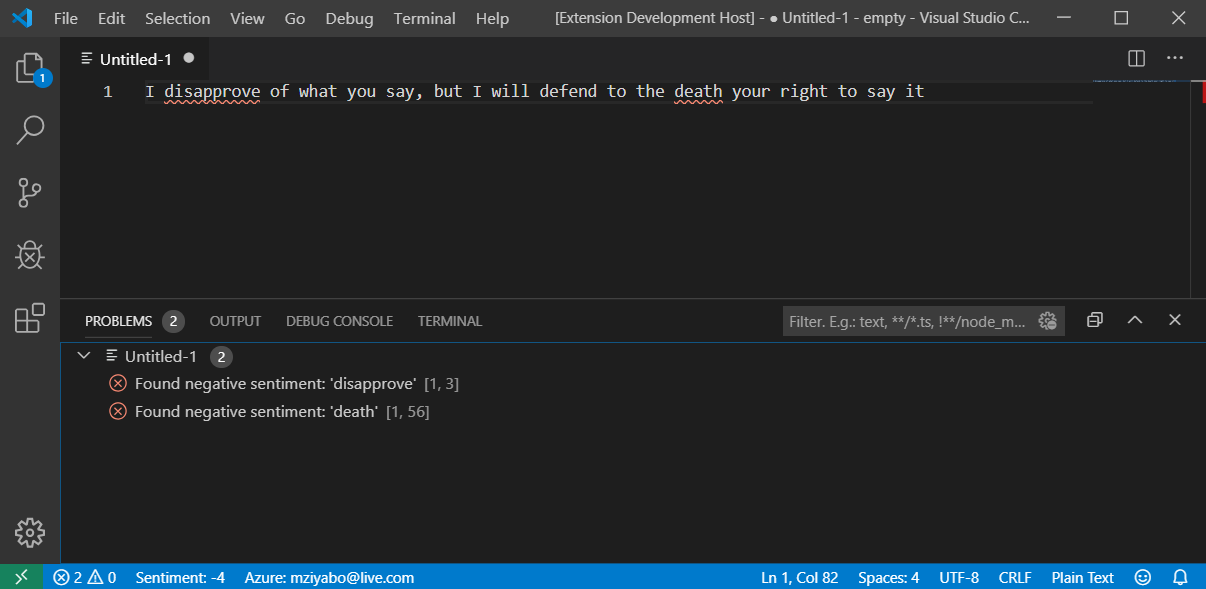
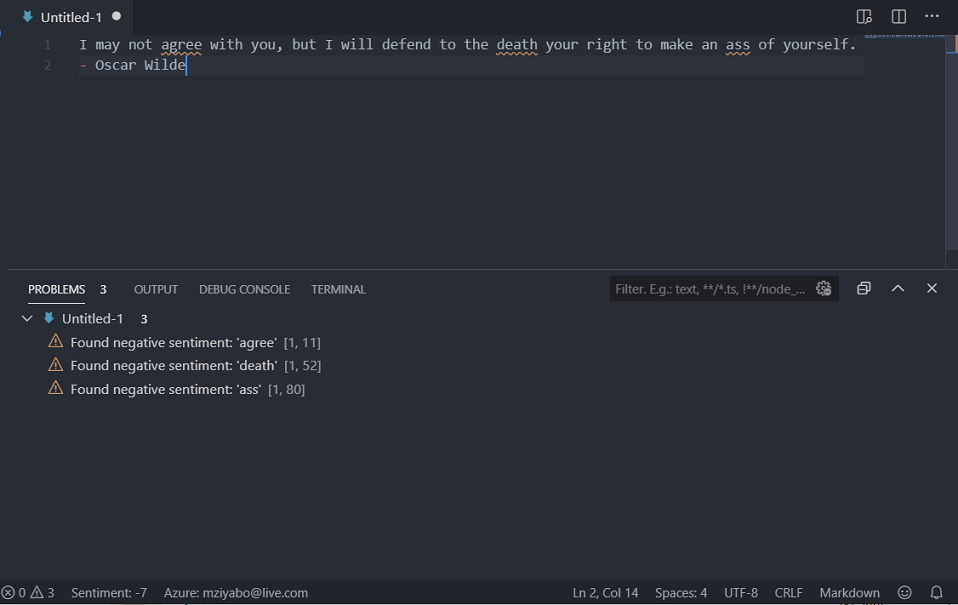
Updated sentiment DiagnosticSeverity from Error to Warning

diff --git a/src/sentiment.ts b/src/sentiment.ts
@@ -31,7 +31,7 @@ export function AnalyzeSentiment(collection) {
                     const endPos = activeEditor.document.positionAt(match.index + match[0].length);
 
                     let selection = new vscode.Range(startPos, endPos);
-                    let diagnostic = new vscode.Diagnostic(selection, `Found negative sentiment: '${negative}'`, vscode.DiagnosticSeverity.Error);
+                    let diagnostic = new vscode.Diagnostic(selection, `Found negative sentiment: '${negative}'`, vscode.DiagnosticSeverity.Warning);
 
                     diagnostics.push(diagnostic);
                 }

diff --git a/README.md b/README.md
@@ -18,4 +18,4 @@ This extension is still a work in progress.
 
 ### Licence:
 
-This extension released under the [Apache 2.0 License](https://www.apache.org/licenses/LICENSE-2.0)
+This extension is released under the [Apache 2.0 License](https://www.apache.org/licenses/LICENSE-2.0)
